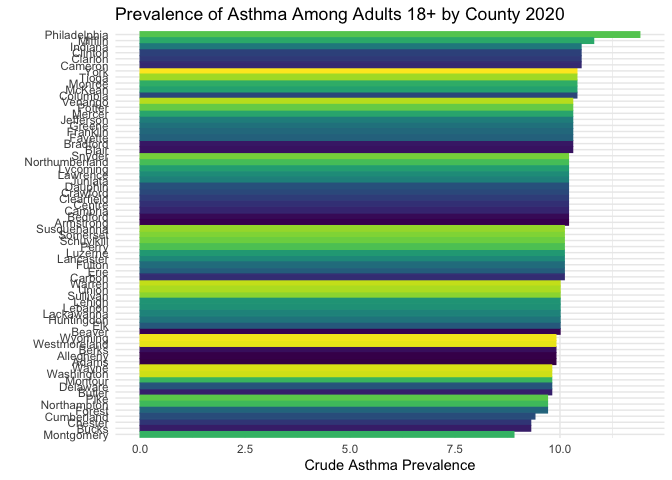
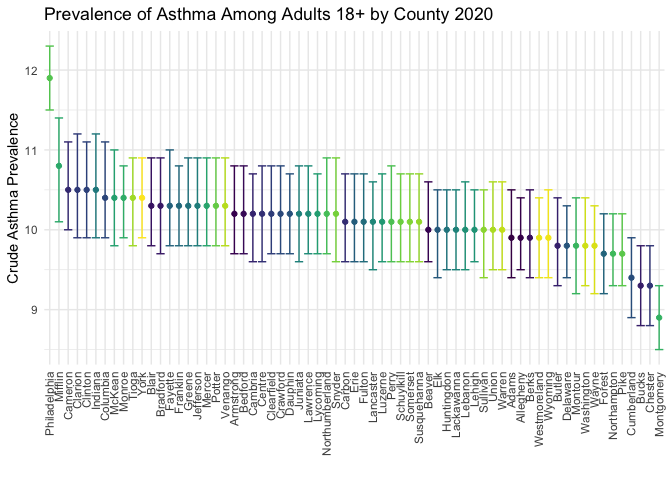
changed plots from barchart to dotplot with 95% CIs

diff --git a/Exploratory_Analysis.md b/Exploratory_Analysis.md
@@ -41,14 +41,27 @@ health_outcomes =
   mutate(
     county = as.factor(county)
   ) %>% 
-  select(state, county, casthma_crude_prev,cancer_crude_prev, ) %>% 
-  filter(state == "PA")
-
+  select(state, county, casthma_crude_prev,casthma_crude95ci, cancer_crude_prev,cancer_crude95ci ) %>% 
+  filter(state == "PA") %>%
+  mutate(asthma_ci = str_remove_all(casthma_crude95ci, '[()]'),
+         cancer_ci = str_remove_all(cancer_crude95ci, '[()]')) %>%
+  select(-casthma_crude95ci,-cancer_crude95ci) %>%
+  separate(asthma_ci, into = c("asthma_lower", "asthma_upper"), sep = ",") %>%
+   separate(cancer_ci, into = c("cancer_lower", "cancer_upper"), sep = ",") %>%
+  mutate(
+    asthma_lower = as.numeric(asthma_lower),
+    asthma_upper = as.numeric(asthma_upper),
+    cancer_lower = as.numeric(cancer_lower),
+    cancer_upper = as.numeric(cancer_upper)
+  )
+  
+  
 ggplot(health_outcomes,
-aes(x = reorder(county,+casthma_crude_prev), y = casthma_crude_prev, color = county, fill = county)) + 
-  geom_bar(stat = "identity") +
-  coord_flip() +
+aes(x = reorder(county,-casthma_crude_prev), y = casthma_crude_prev, color = county)) + 
+  geom_point() +
+  geom_errorbar(aes(ymin = asthma_lower, ymax = asthma_upper)) +
   theme(
+    axis.text.x = element_text(angle = 90, vjust = 0.5, hjust = 1),
     legend.position = "none") +
    labs(
     x = " ",
@@ -60,37 +73,12 @@ aes(x = reorder(county,+casthma_crude_prev), y = casthma_crude_prev, color = cou
 ![](Exploratory_Analysis_files/figure-gfm/plot%202%20-1.png)<!-- -->
 
 ``` r
-top_asthma_outcomes = 
-  read_csv("./data/PLACES_County_2022.csv") %>% 
-  janitor::clean_names() %>% 
-  rename(county = county_name, state = state_abbr) %>% 
-  mutate(
-    county = as.factor(county)
-  ) %>% 
-  select(state, county, casthma_crude_prev, ) %>% 
-  filter(state == "PA", casthma_crude_prev >= 10.4) 
-
-ggplot(top_asthma_outcomes,
-aes(x = reorder(county,+casthma_crude_prev), y = casthma_crude_prev, color = county, fill = county)) + 
-  geom_bar(stat = "identity") +
-  coord_flip() +
-  theme(
-    legend.position = "none") +
-   labs(
-    x = " ",
-    y = "Crude Asthma Prevalence"
-  ) +
-  ggtitle("Top 10 Counties With Highest Asthma Prevalence in PA ")
-```
-
-![](Exploratory_Analysis_files/figure-gfm/plot%202%20-2.png)<!-- -->
-
-``` r
 ggplot(health_outcomes,
-aes(x = reorder(county,+cancer_crude_prev), y = cancer_crude_prev, color = county, fill = county)) + 
-  geom_bar(stat = "identity") +
-  coord_flip() +
+aes(x = reorder(county,-cancer_crude_prev), y = cancer_crude_prev, color = county)) + 
+  geom_point() +
+  geom_errorbar(aes(ymin = cancer_lower, ymax = cancer_upper)) +
   theme(
+    axis.text.x = element_text(angle = 90, vjust = 0.5, hjust = 1),
     legend.position = "none") +
    labs(
     x = " ",
@@ -99,30 +87,4 @@ aes(x = reorder(county,+cancer_crude_prev), y = cancer_crude_prev, color = count
   ggtitle("Prevalence of Cancer Among Adults 18+ by County 2020")
 ```
 
-![](Exploratory_Analysis_files/figure-gfm/plot%202%20-3.png)<!-- -->
-
-``` r
-top_cancer_outcomes = 
-  read_csv("./data/PLACES_County_2022.csv") %>% 
-  janitor::clean_names() %>% 
-  rename(county = county_name, state = state_abbr) %>% 
-  mutate(
-    county = as.factor(county)
-  ) %>% 
-  select(state, county, cancer_crude_prev, ) %>% 
-  filter(state == "PA", cancer_crude_prev >= 8.5) 
-
-ggplot(top_cancer_outcomes,
-aes(x = reorder(county,+cancer_crude_prev), y = cancer_crude_prev, color = county, fill = county)) + 
-  geom_bar(stat = "identity") +
-  coord_flip() +
-  theme(
-    legend.position = "none") +
-   labs(
-    x = " ",
-    y = "Crude Cancer Prevalence"
-  ) +
-  ggtitle("Top 11 Counties with Highest Prevalence of Cancer in PA")
-```
-
-![](Exploratory_Analysis_files/figure-gfm/plot%202%20-4.png)<!-- -->
+![](Exploratory_Analysis_files/figure-gfm/plot%202%20-2.png)<!-- -->
